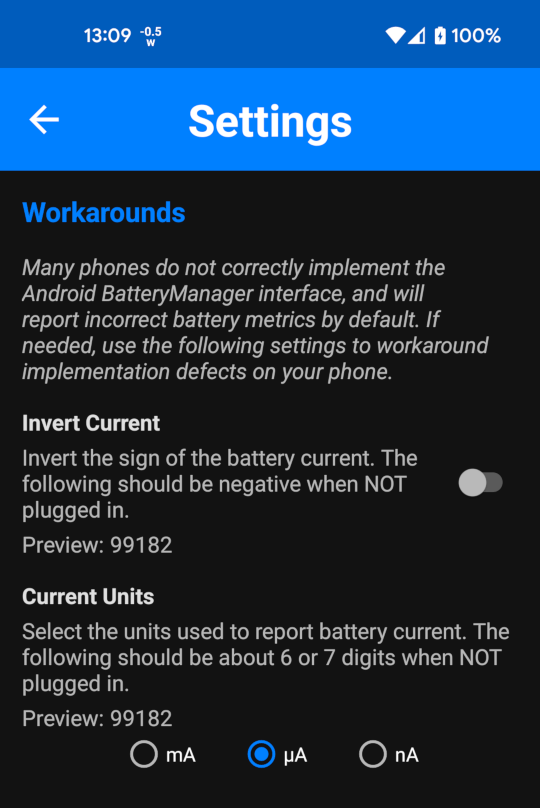
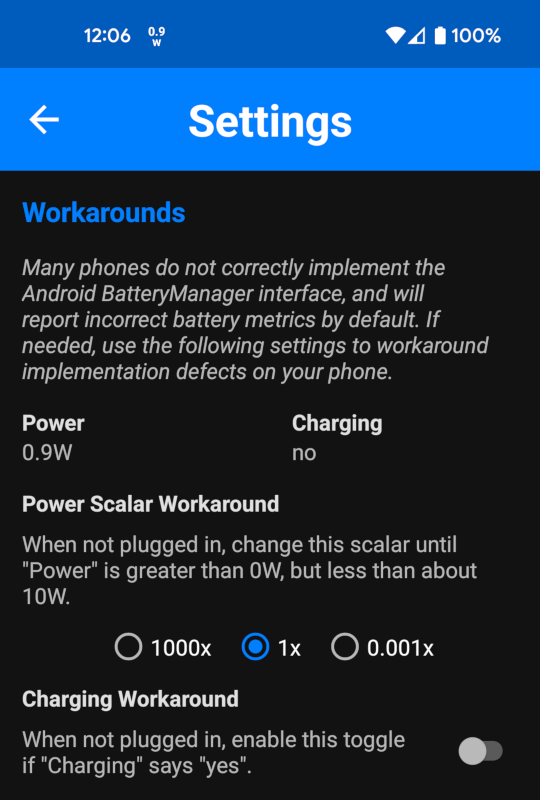
Simplify settings view
To avoid confusion, avoid referencing raw values in the settings menu.
This precludes needing to explain the difference between raw and display
values previously used in different views of the app.

See: https://github.com/dubrowgn/wattz/issues/23

diff --git a/app/src/main/java/dubrowgn/wattz/SettingsActivity.kt b/app/src/main/java/dubrowgn/wattz/SettingsActivity.kt
@@ -18,11 +18,11 @@ class SettingsActivity : Activity() {
     private lateinit var battery: Battery
     private val task = PeriodicTask({ update() }, intervalMs)
 
-    private lateinit var currentUnits: RadioGroup
-    private lateinit var currentUnitsPreview: TextView
+    private lateinit var charging: TextView
+    private lateinit var currentScalar: RadioGroup
     @SuppressLint("UseSwitchCompatOrMaterialCode")
     private lateinit var invertCurrent: Switch
-    private lateinit var invertCurrentPreview: TextView
+    private lateinit var power: TextView
 
     private fun debug(msg: String) {
         Log.d(this::class.java.name, msg)
@@ -30,22 +30,14 @@ class SettingsActivity : Activity() {
 
     private fun loadPrefs() {
         val settings = getSharedPreferences(settingsName, MODE_PRIVATE)
-        currentUnits.check(
+        currentScalar.check(
             when (settings.getFloat("currentScalar", -1f)) {
-                1000f -> R.id.currentUnitsMillis
-                .001f -> R.id.currentUnitsNanos
-                else -> R.id.currentUnitsMicros
+                1000f -> R.id.currentScalar1000
+                .001f -> R.id.currentScalar0_001
+                else -> R.id.currentScalar1
             }
         )
         invertCurrent.isChecked = settings.getBoolean("invertCurrent", false)
-    }
-
-    private val currentScalar: Float get() {
-        return when(currentUnits.checkedRadioButtonId) {
-            R.id.currentUnitsMillis -> 1000f
-            R.id.currentUnitsNanos -> .001f
-            else -> 1f
-        }
     }
 
     @SuppressLint("ApplySharedPref")
@@ -54,20 +46,25 @@ class SettingsActivity : Activity() {
 
         getSharedPreferences(settingsName, MODE_PRIVATE)
             .edit()
-            .putBoolean("invertCurrent", invertCurrent.isChecked)
-            .putFloat("currentScalar", currentScalar)
+            .putBoolean("invertCurrent", battery.invertCurrent)
+            .putFloat("currentScalar", battery.currentScalar.toFloat())
             .commit()
 
         sendBroadcast(Intent().setPackage(packageName).setAction(settingsUpdateInd))
     }
 
+    @SuppressLint("SetTextI18n")
     private fun update() {
-        val current = battery.snapshot().currentRaw
+        battery.currentScalar = when(currentScalar.checkedRadioButtonId) {
+            R.id.currentScalar1000 -> 1000.0
+            R.id.currentScalar0_001 -> 0.001
+            else -> 1.0
+        }
+        battery.invertCurrent = invertCurrent.isChecked
 
-        currentUnitsPreview.text = "${current?.times(currentScalar)?.toLong()}"
-
-        val sign = if(invertCurrent.isChecked) -1L else 1L
-        invertCurrentPreview.text = "${current?.times(sign)}"
+        val snapshot = battery.snapshot()
+        charging.text = getString(if (snapshot.charging) R.string.yes else R.string.no)
+        power.text = "${fmt(snapshot.watts)}W"
     }
 
     override fun onCreate(savedInstanceState: Bundle?) {
@@ -79,14 +76,14 @@ class SettingsActivity : Activity() {
 
         setContentView(R.layout.activity_settings)
 
-        currentUnits = findViewById(R.id.currentUnits)
-        currentUnitsPreview = findViewById(R.id.currentUnitsPreview)
+        charging = findViewById(R.id.charging)
+        currentScalar = findViewById(R.id.currentScalar)
         invertCurrent = findViewById(R.id.invertCurrent)
-        invertCurrentPreview = findViewById(R.id.invertCurrentPreview)
+        power = findViewById(R.id.power)
 
         loadPrefs()
 
-        currentUnits.setOnCheckedChangeListener { _, _ -> onChange() }
+        currentScalar.setOnCheckedChangeListener { _, _ -> onChange() }
         invertCurrent.setOnCheckedChangeListener { _, _ -> onChange() }
     }
 
